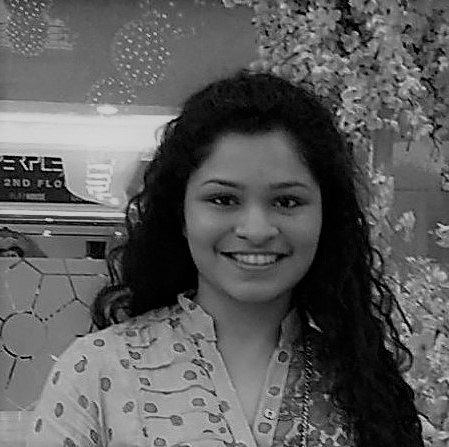
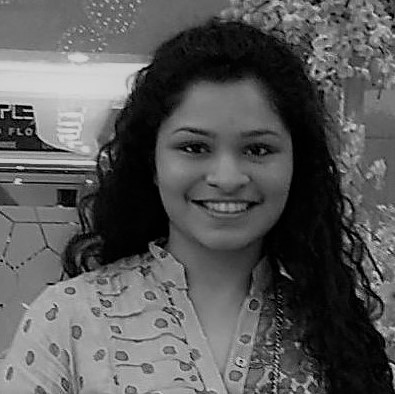
test6

diff --git a/index.html b/index.html
@@ -96,7 +96,7 @@ body {margin:0;}
 
 <section>
     <div id="one">
-    	<img class="profile-home" src="resources/images/Ayushi.jpg" alt="Ayushi Rastogi">
+    	<img class="profile-home" src="resources/images/Ayushi.jpg" alt="Ayushi Rastogi" style="width: 75%; height: 75%">
     </div>
 
     <div id="two">
@@ -108,8 +108,7 @@ body {margin:0;}
 		My goal is to expand the understanding on the ways in which developer characteristics and work behavior influence team performance and are, in turn, influenced by advances in software development approaches. I work in the broad areas of empirical software engineering and mining software repositories which lies at the intersection of <b>software engineering</b> and <b>data science</b>. 
 		</p>
 		<br />
-		<br />
-					
+		
 	</div>
 	
 	<div class="emph-border" align="justify">		
